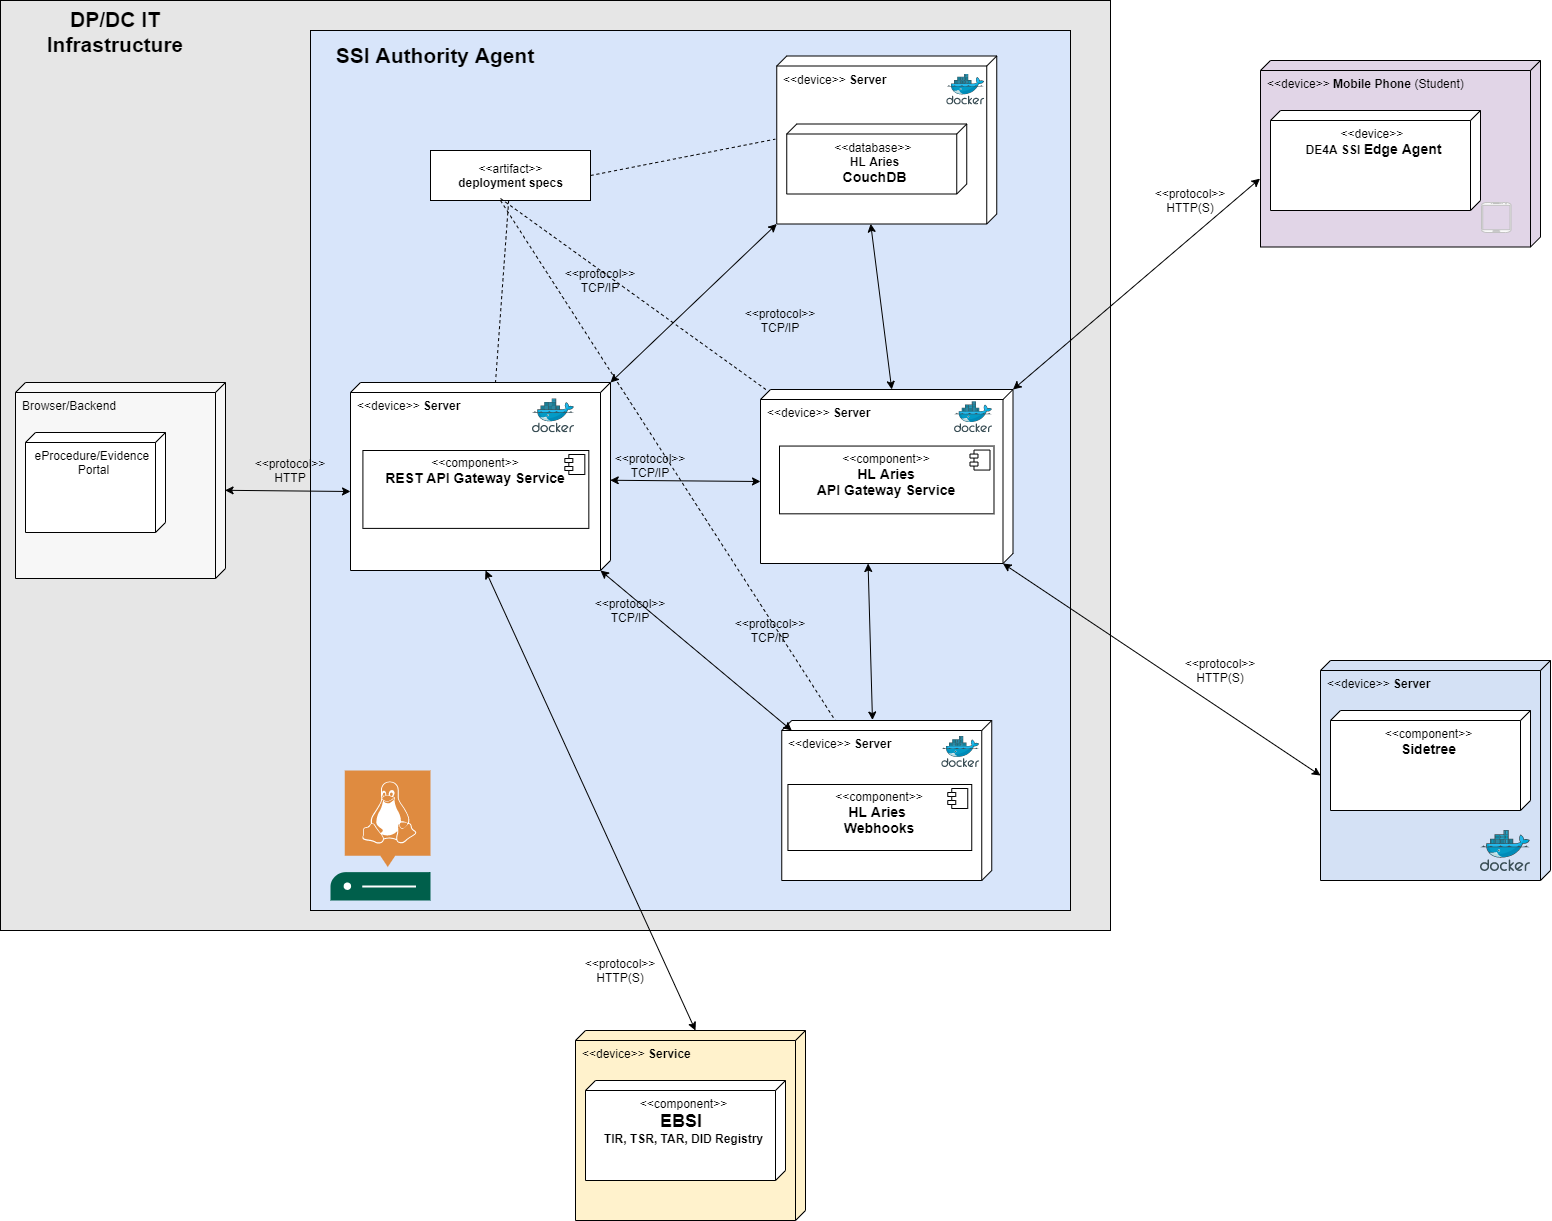
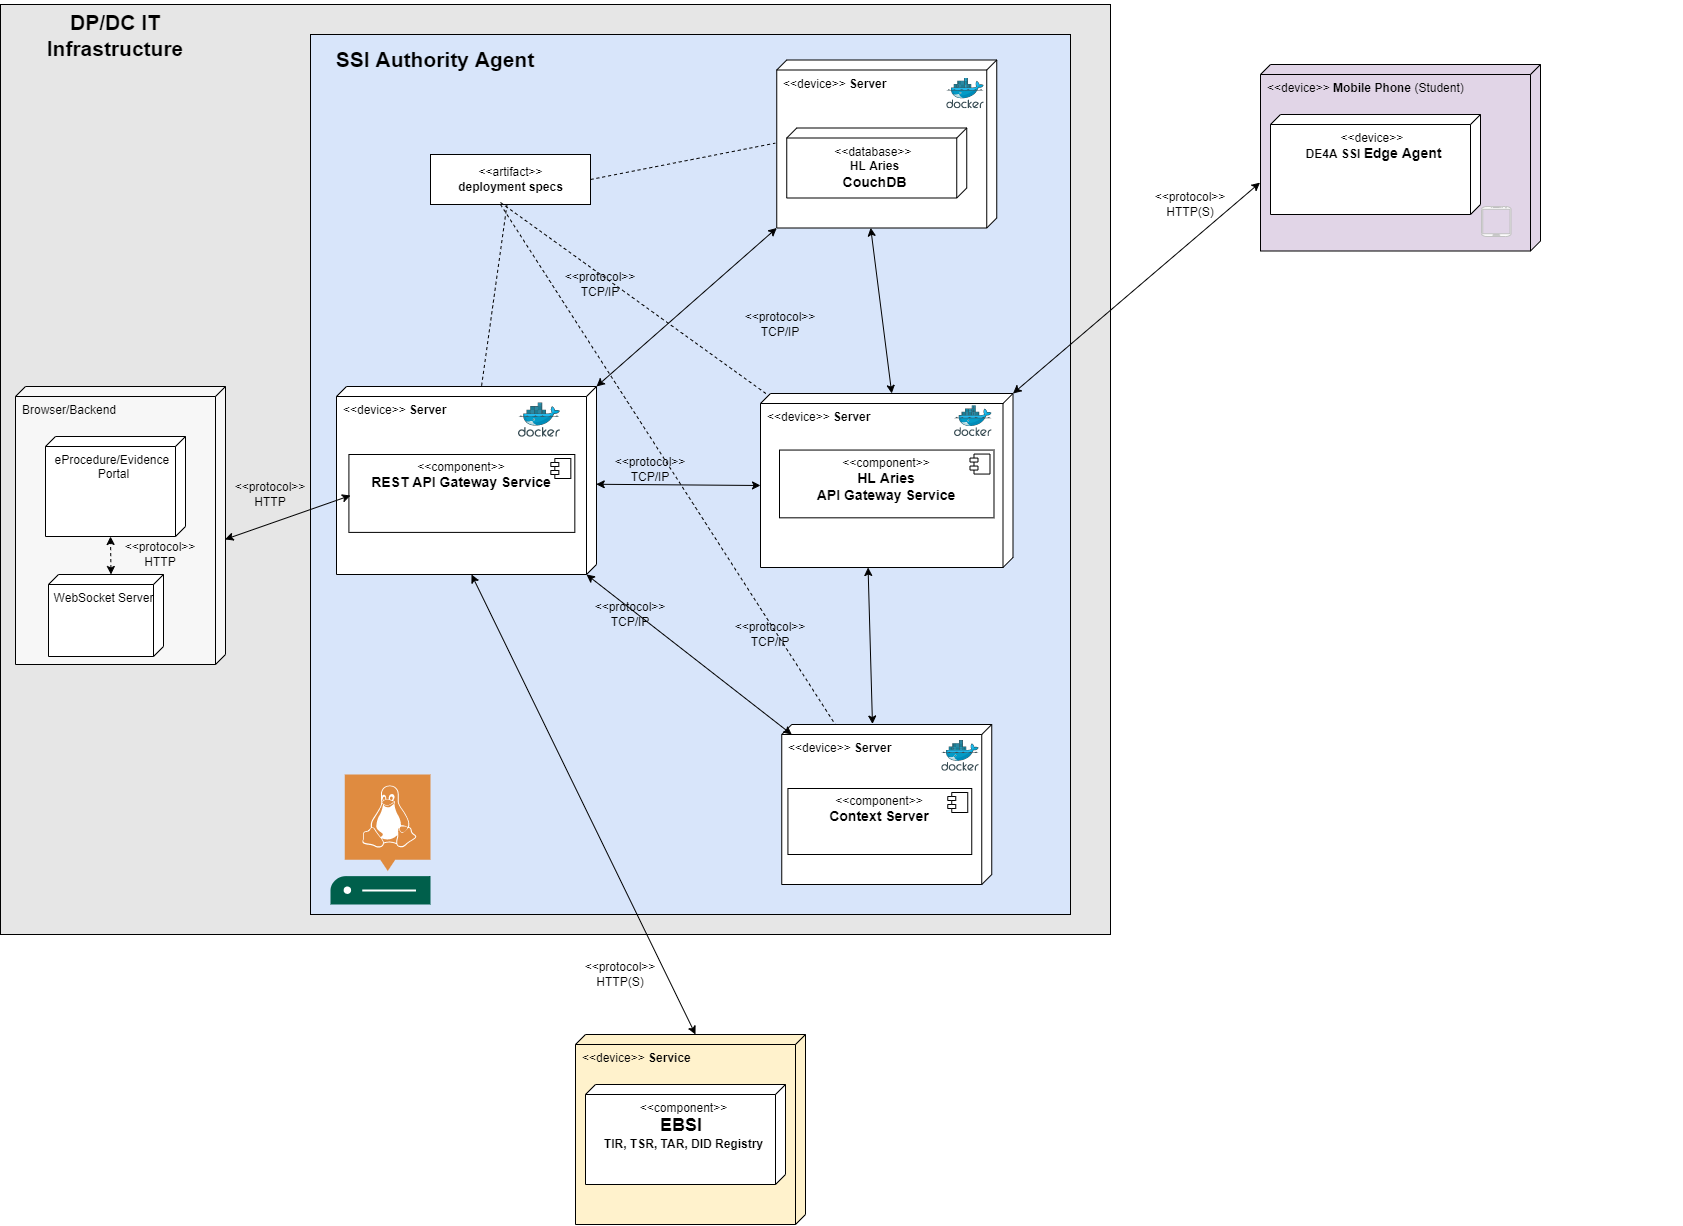
Updated documentation for it2. Updated deployment diagram.

diff --git a/README.md b/README.md
@@ -63,7 +63,7 @@ db.ip.address=http://couchdb.de4a.eu:5984/
 db.username=<INSERT DB administrator username>
 db.password=<INSERT DB administrator password>
 db.name=<INSERT DB name, which will created when using the Authority Agent automatically> (example value: de4a-authority-agent)
-alias=<INSERT ORGANIZATION ALIAS NAME> (example value: MIZSSlovenia)
+alias=<INSERT ORGANIZATION ALIAS NAME> (example value: MIZŠ-SI)
 aries.enterprise.ip.address=<INSERT_PUBLIC_DOMAIN_HERE>:8082/
 signature.type=Ed25519Signature2018
 bearer.token=<INSERT session token value obtained from the EBSI onboarding website (steps explained below)>
@@ -72,21 +72,34 @@ bearer.token=<INSERT session token value obtained from the EBSI onboarding websi
 organization.img.url=<INSERT PUBLIC URL WITH LOGO IMAGE OF THE ORGANIZATION>
 client.url=<INSERT ENDPOINT URL OF THE PORTAL>
 vc.schema.url=http://de4a-dev-schema.informatika.uni-mb.si:9099/de4a-diploma-schema.json
+do.url=http://eportal.v2.de4a.eu:8080 (optional for Verifiers)
+de.url=http://eportal.v2.de4a.eu:8080 (optional for Issuers)
 ```
-
+exi
 Note that the `alias` property is needed when generating DID connection invitations to students in order to display the shortened name of the organization sending an invitation to the student.
 
-** Parameters added in iteration 2: ** 
+**Parameters added in iteration 2:** 
 - `organization.img.url` - the parameter is needed during establishing DID connection with the student's mobile agent. The image available on this URL is displayed as an organization's icon in the student's mobile phone;
 - `client.url` - the parameter is used to send status update notifications from the Authority Agent to the Evidence/eProcedure portal already used by the organization. The API endpoint implemented on this URL should be a POST method, which receives a string object in the POST request body;
 - `vc.schema.url` - the parameter is needed to support VC schema evaluation during VC issuance and VP validation processes. The value does **not** need to be changed, as the schema description file is hosted by UM. 
+- `do.url` - the parameter is to be specified by the organization that acts as the Issuer of Verifiable Credentials, and it contains the main URL of the Issuer's Evidence Portal. The parameter is used *only for DE4A logging purposes.
+- `de.url` - the parameter is to be specified by the organization that acts as the Verifier of submitted Verifiable Credentials, and it contains the main URL of the Verifier's eProcedure Portal. The parameter is used only for DE4A logging purposes.
+
+### Re-deploying the SSI Authority Agent API for iteration 2
+
+To avoid additional procedures regarding manual registration of Issuers in the EBSI Trusted Issuer Registry, it is possible to re-deploy the Authority Agent REST API service by simply retrieving the latest Docker image from DE4A DockerHub before running the `docker-compose` file:
+```bash
+docker pull de4a/de4a-ssi-authority-agent-base
+```
+
+This will pull the latest Docker image of the REST API without deleting the DID- and EBSI-related keys already generated for your Authority Agent instance in iteration 1. Once you retrieved the updated Docker image, you can proceed to start the containers.
 
 ### EBSI integration and signing Verifiable Credentials
 
 The Authority Agent will generate a DID:ebsi on the first startup automatically, which is then used to sign Verifiable Credentials issued by the Trusted Issuer. A generated DID:ebsi imported into the Aries government agent is a pre-condition step for generating VCs.
 This step is automatized by using the EBSI connector integrated into the Authority Agent. The EBSI Connector is executed automatically by the Authority Agent once you run the docker compose.  
 The integrated EBSI connector will generate a new DID:ebsi and the necessary keys on the first startup of the Authority Agent, register the DID into the EBSI DID Registry and import the necessary keys into the Aries government agent so that it can sign the VC with the DID:ebsi and check the digital signature during the VC validation.
-To perform these steps, the EBSI connector needs to communicate with EBSI APIs and to establish this communication, it requires a bearer token, whose value is specified in the configuration file before starting the Docker containers (`v1.0/agent/api-java/conf/app.properties`). 
+To perform these steps, the EBSI connector needs to communicate with EBSI APIs and to establish this communication, it requires a bearer token, whose value is specified in the configuration file before starting the Docker containers (`v2.0/agent/api-java/conf/app.properties`). 
 IMPORTANT: the bearer token needs to be obtained manually from the EBSI website and copied into the configuration file before running the Docker containers! To do this, go to [https://app.preprod.ebsi.eu/users-onboarding/] -> Onboard with Captcha -> Desktop Wallet and copy the session token.
 The obtained token is valid for a limited time (15 minutes), so you need to start the Authority Agent within that period. Otherwise, you will need to repeat the process and obtain a new token.
 
@@ -175,14 +188,14 @@ Removing network agent_bdd_net                   ... done
 
 ### Testing the SSI Authority Agent deployment
 
-You can test if the deployment of the SSI Authority Agent has been successfull directly by calling its API methods from the preferred API development tool (e.g. Postman) by following the API methods described in the Swagger documentation (pre-condition: change the server IP address in file `v1.0/authority-agent-api_v1.0.yml`). 
+You can test if the deployment of the SSI Authority Agent has been successfull directly by calling its API methods from the preferred API development tool (e.g. Postman) by following the API methods described in the Swagger documentation (pre-condition: change the server IP address in file `v2.0/authority-agent-api_v2.0.yml`). 
 
 You can test if the Authority Agent is working properly by checking the current DID connection status for a random user ID (note: replace IP ADDRESS:PORT with your Authority Agent server address). 
 The following request is made:
 
 ``` bash
 curl -X 'GET' \
-  'http://<IP ADDRESS:PORT>/de4a-agent/v2/did-conn-status/alice' \
+  'http://<IP ADDRESS:PORT>/v2/did-conn-status/alice' \
   -H 'accept: application/json'
 ```
 
@@ -192,17 +205,19 @@ The above request should return `-1`, as there is no DID connection for user ID 
 
 ** Flow of API requests in iteration 2: **
 
-The flow of API requests for the DP side is the following:
-1.  `/generate-invitation`
-2.  `/did-conn-status/{userId}`
-3.  `/send-vc-offer` 
-4.  `/check-offer-vc-response/{userId}` 
+The flow of API requests for the Issuer's side is the following:
+1.  `/did-conn-status/{userId}`
+2.  `/generate-invitation`
+3.  `/did-conn-status/{userId}` (for websockets purposes)
+4.  `/send-vc-offer` 
+5.  `/check-offer-vc-response/{userId}` 
 
-The flow of API requests for the DC side is the following:
-1.  `/generate-invitation`
-2.  `/did-conn-status/{userId}`
-3.  `/send-vp-request` 
-4.  `/check-request-vp-response/{userId}`
+The flow of API requests for the Verifier's side is the following:
+1.  `/did-conn-status/{userId}`
+2.  `/generate-invitation`
+3.  `/did-conn-status/{userId}` (for websockets purposes)
+4.  `/send-vp-request` 
+5.  `/check-request-vp-response/{userId}`
 
 <!-- Document is comprised as follows:
 
